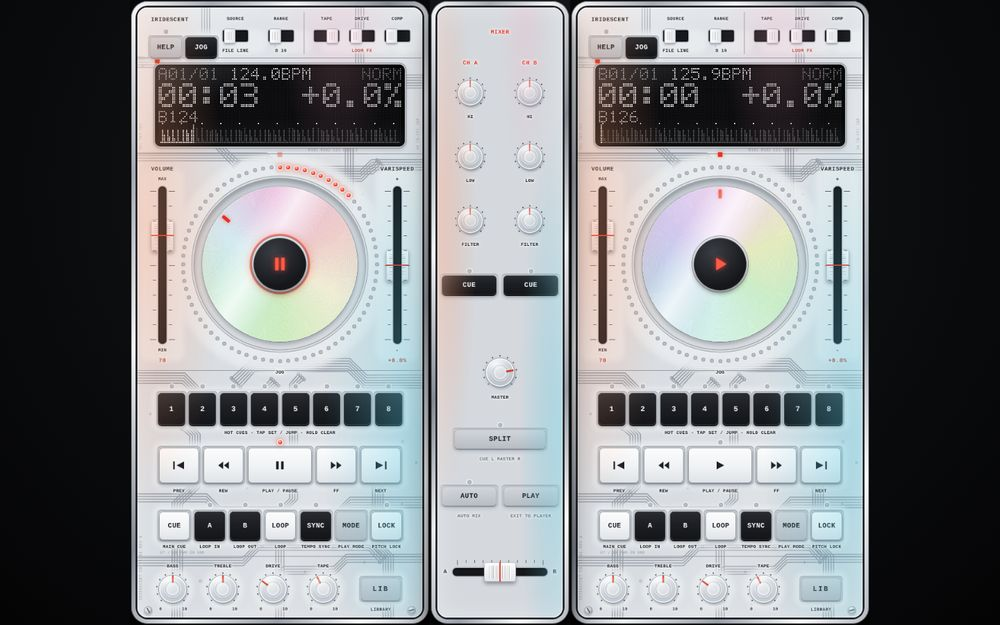
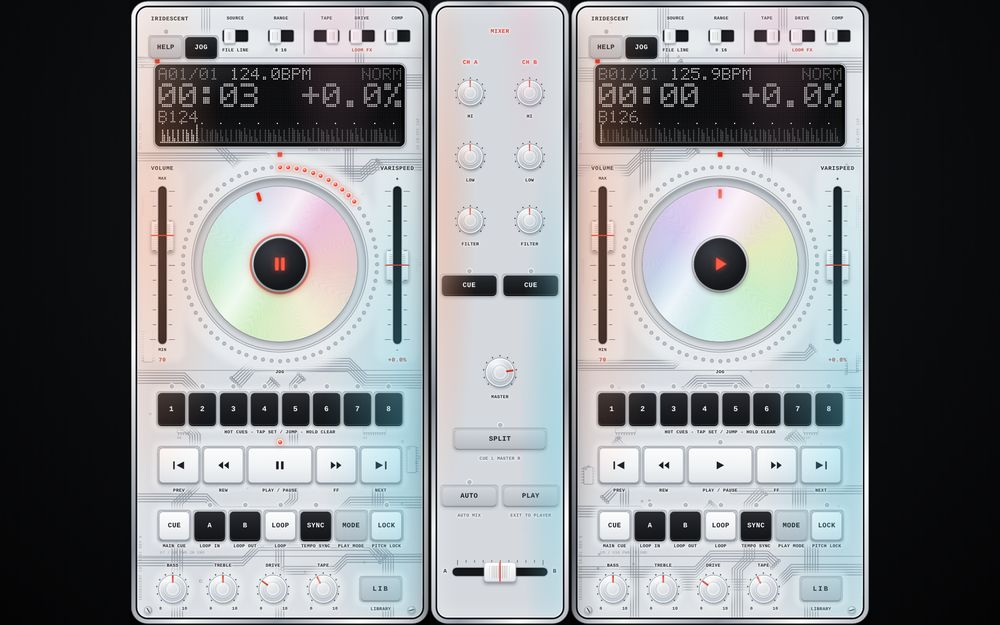
Add files via upload

diff --git a/index.html b/index.html
@@ -1552,7 +1552,8 @@ chassis.addEventListener('pointerdown', e => {
 let frostEl = null;
 (function () {
   const rim = el('rim', stage, ''); stage.insertBefore(rim, chassis);
-  let seed = 303;
+  const DB = DK === 'B';   // deck B gets its own board: other traces, other chips, other silkscreen
+  let seed = DB ? 7919 : 303;
   const rnd = () => (seed = (seed * 1664525 + 1013904223) >>> 0) / 4294967296;
   const ri = (a, b) => a + Math.floor(rnd() * (b - a + 1));
   const TR = '#59616c', PAD = '#4f5762';
@@ -1584,13 +1585,37 @@ let frostEl = null;
     }
   }
   const H = [1, 0], V = [0, 1];
-  [[0, 96, 5, 4, [H]], [500, 130, 6, 4, [[-1, 0]]], [0, 262, 4, 4, [H]], [500, 276, 5, 4, [[-1, 0]]], [0, 650, 5, 4, [H]], [500, 656, 6, 4, [[-1, 0]]],
+  (DB ? [[0, 118, 6, 4, [H]], [500, 104, 5, 4, [[-1, 0]]], [0, 286, 5, 4, [H]], [500, 254, 4, 4, [[-1, 0]]], [0, 626, 4, 4, [H]], [500, 676, 5, 4, [[-1, 0]]],
+   [150, 0, 5, 4, [V]], [360, 0, 4, 4, [V]], [100, 1070, 4, 4, [[0, -1]]], [410, 1070, 6, 4, [[0, -1]]], [280, 1070, 5, 4, [[0, -1]]],
+   [0, 884, 5, 4, [H]], [500, 846, 4, 4, [[-1, 0]]], [0, 990, 5, 4, [H]], [500, 986, 5, 4, [[-1, 0]]]]
+   : [[0, 96, 5, 4, [H]], [500, 130, 6, 4, [[-1, 0]]], [0, 262, 4, 4, [H]], [500, 276, 5, 4, [[-1, 0]]], [0, 650, 5, 4, [H]], [500, 656, 6, 4, [[-1, 0]]],
    [120, 0, 4, 4, [V]], [390, 0, 4, 4, [V]], [70, 1070, 5, 4, [[0, -1]]], [440, 1070, 5, 4, [[0, -1]]], [250, 1070, 4, 4, [[0, -1]]],
-   [0, 860, 4, 4, [H]], [500, 868, 5, 4, [[-1, 0]]], [0, 972, 4, 4, [H]], [500, 966, 4, 4, [[-1, 0]]]].forEach(b => bus.apply(null, b));
+   [0, 860, 4, 4, [H]], [500, 868, 5, 4, [[-1, 0]]], [0, 972, 4, 4, [H]], [500, 966, 4, 4, [[-1, 0]]]]).forEach(b => bus.apply(null, b));
   for (let i = 0; i < 46; i++) svg += '<circle cx="' + ri(8, 492) + '" cy="' + ri(8, 1062) + '" r="' + (rnd() < .3 ? 2.2 : 1.5) + '" fill="none" stroke="' + PAD + '" stroke-width="1"/>';
   const tx = (x, y, t, r, sz) => { svg += '<text x="' + x + '" y="' + y + '" font-size="' + (sz || 6.2) + '" font-family="ui-monospace,Menlo,Consolas,monospace" letter-spacing=".6" fill="#4f5762"' + (r ? ' transform="rotate(' + r + ' ' + x + ' ' + y + ')"' : '') + '>' + t + '</text>'; };
-  tx(8, 1040, 'IRIDESCENT  CD IR-01  REV A', -90, 6.6); tx(494, 250, 'J4  CN-FFC 16P', -90); tx(8, 250, 'TP1  TP2  TP3', -90);
-  tx(300, 252, 'R101  R102  C21  C22  L3', 0); tx(40, 958, 'U7 / U8   PWR-IN   GND', 0);
+  function chip(x, y, w, hh, n, ref) {
+    // an IC footprint: body outline, pins on the long sides, pin-1 dot, reference
+    const vert = hh >= w, pitch = (vert ? hh : w) / n;
+    svg += '<rect x="' + x + '" y="' + y + '" width="' + w + '" height="' + hh + '" rx="1.5" fill="none" stroke="' + TR + '" stroke-width="1.3"/>';
+    for (let i = 0; i < n; i++) {
+      const p = (i + .5) * pitch;
+      if (vert) svg += '<path d="M' + (x - 4) + ' ' + (y + p) + 'h4M' + (x + w) + ' ' + (y + p) + 'h4" stroke="' + PAD + '" stroke-width="1.4"/>';
+      else svg += '<path d="M' + (x + p) + ' ' + (y - 4) + 'v4M' + (x + p) + ' ' + (y + hh) + 'v4" stroke="' + PAD + '" stroke-width="1.4"/>';
+    }
+    svg += '<circle cx="' + (x + 3.5) + '" cy="' + (y + 3.5) + '" r="1.5" fill="none" stroke="' + PAD + '" stroke-width="1"/>';
+    tx(vert ? x + w + 7 : x, vert ? y + hh / 2 : y + hh + 11, ref, vert ? -90 : 0, 5.6);
+  }
+  if (DB) {
+    tx(8, 1040, 'IRIDESCENT  CD IR-01  REV B', -90, 6.6); tx(494, 250, 'J7  CN-FFC 12P', -90); tx(8, 250, 'TP4  TP5  TP6', -90);
+    tx(300, 252, 'R201  R202  C41  C42  L5', 0); tx(40, 958, 'U9 / U10   PWR-IN   GND', 0);
+    chip(11, 440, 16, 46, 10, 'U9'); chip(11, 806, 16, 30, 6, 'U10'); chip(473, 330, 16, 58, 12, 'U11'); chip(473, 604, 16, 36, 8, 'U12');
+    chip(66, 735, 36, 11, 8, 'U13'); chip(396, 735, 26, 11, 6, 'U14');
+  } else {
+    tx(8, 1040, 'IRIDESCENT  CD IR-01  REV A', -90, 6.6); tx(494, 250, 'J4  CN-FFC 16P', -90); tx(8, 250, 'TP1  TP2  TP3', -90);
+    tx(300, 252, 'R101  R102  C21  C22  L3', 0); tx(40, 958, 'U7 / U8   PWR-IN   GND', 0);
+    chip(11, 330, 16, 36, 8, 'U1'); chip(11, 566, 16, 56, 12, 'U2'); chip(473, 440, 16, 26, 6, 'U3'); chip(473, 770, 16, 46, 10, 'U4');
+    chip(396, 735, 40, 11, 10, 'U5'); chip(70, 735, 22, 11, 5, 'U6');
+  }
   const pcb = document.createElementNS('http://www.w3.org/2000/svg', 'svg');
   pcb.setAttribute('viewBox', '0 0 500 1070'); pcb.setAttribute('class', 'pcb'); pcb.innerHTML = svg;
   chassis.insertBefore(pcb, chassis.firstChild);

diff --git a/sw.js b/sw.js
@@ -1,5 +1,5 @@
 /* IRIDESCENT: tiny offline cache. Put next to index.html. */
-const C = 'iridescent-v6';
+const C = 'iridescent-v7';
 self.addEventListener('install', e => { e.waitUntil(caches.open(C).then(c => c.addAll(['./', './index.html', './manifest.webmanifest', './icons/icon-180.png', './icons/icon-512.png', './icons/icon-32.png'])).then(() => self.skipWaiting())); });
 self.addEventListener('activate', e => { e.waitUntil(caches.keys().then(ks => Promise.all(ks.filter(k => k !== C).map(k => caches.delete(k)))).then(() => self.clients.claim())); });
 self.addEventListener('fetch', e => {

diff --git a/README.md b/README.md
@@ -29,10 +29,6 @@ DJ mode (hold JOG): [mixer guide](screens/guide-mixer.jpg), Russian: [screens/gu
 
 ![Power-on, splash, scratch, library](screens/states.jpg)
 
-Where the screen is roomy the player stays one player: the disc's own colours bleed softly into the background.
-
-![Desktop, PLAY](screens/desktop-play.jpg)
-
 DJ mode on a tablet or a desktop is one console: two decks with a vertical mixer strip between them.
 
 ![Desktop, DJ](screens/desktop-dj.jpg)
